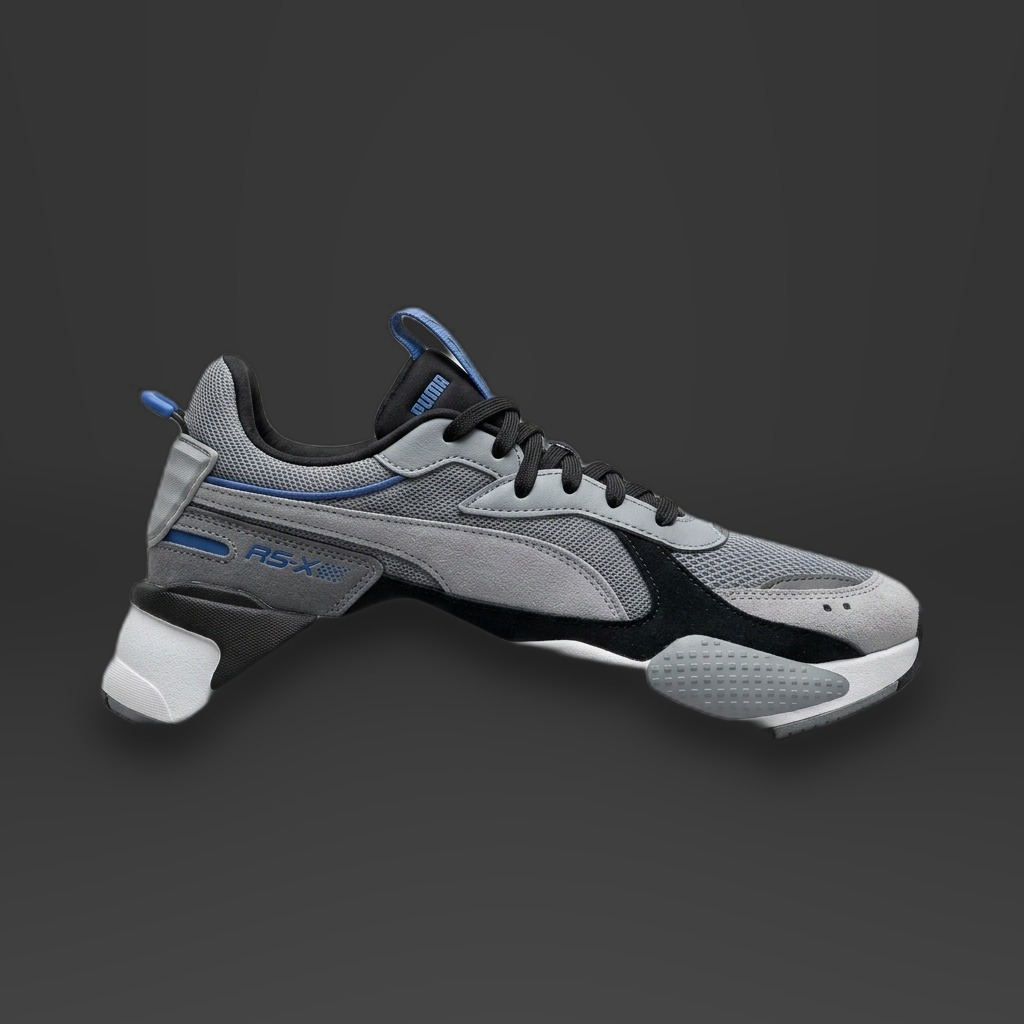
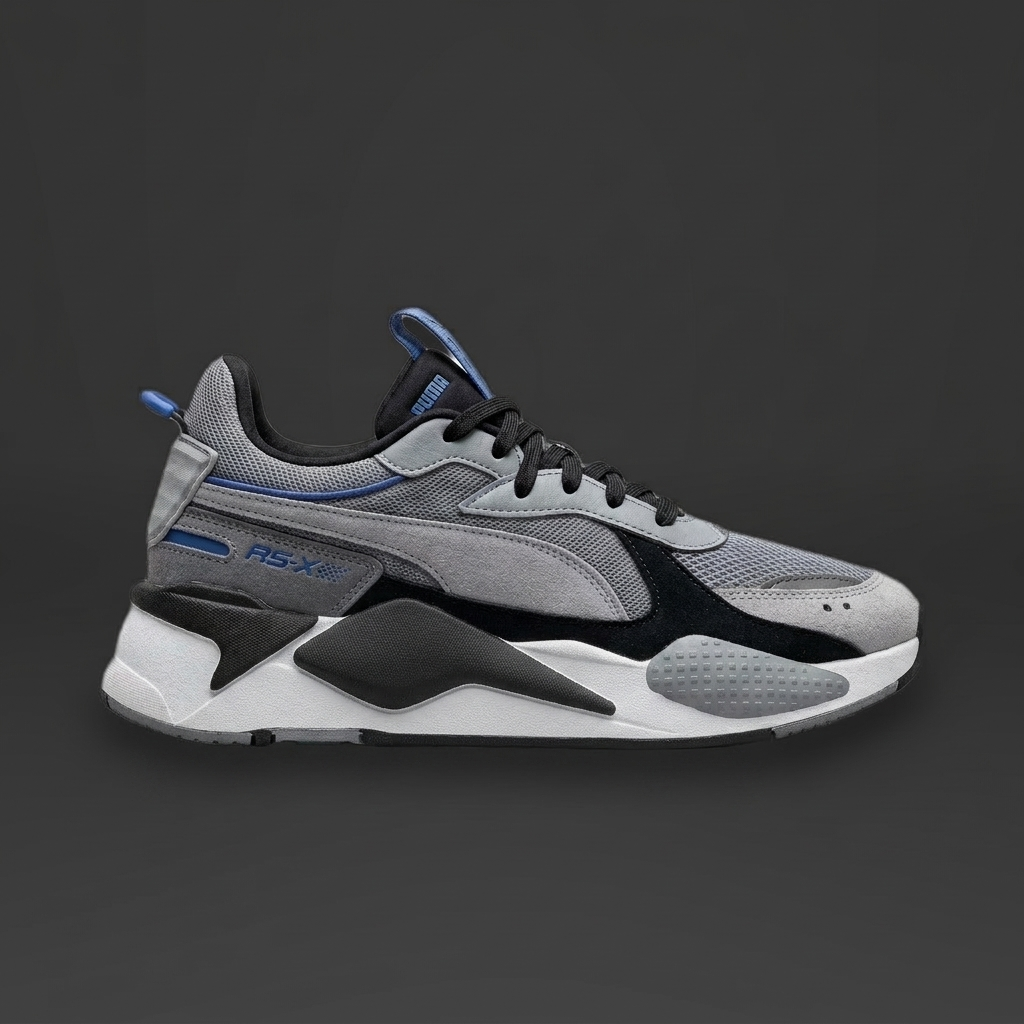
fix(catalogo): reparar foto Puma RS-X, filtrar talles de calzado y simplificar colores base

diff --git a/src/components/catalogo/asistente-busqueda.tsx b/src/components/catalogo/asistente-busqueda.tsx
@@ -12,6 +12,7 @@ interface AsistenteBusquedaProps {
   categorias: OpcionSlug[];
   etiquetas: OpcionSlug[];
   talles: string[];
+  tallesPorCategoria?: Record<string, string[]>;
   variante?: "banner" | "boton";
 }
 
@@ -25,6 +26,7 @@ export function AsistenteBusqueda({
   categorias,
   etiquetas,
   talles,
+  tallesPorCategoria,
   variante = "banner",
 }: AsistenteBusquedaProps) {
   const router = useRouter();
@@ -33,6 +35,31 @@ export function AsistenteBusqueda({
   const [etiqueta, setEtiqueta] = useState("");
   const [categoria, setCategoria] = useState("");
   const [talle, setTalle] = useState("");
+
+  // Solo talles numericos de calzado; niños (<= 34) solo para categoria Niños,
+  // adultos (>= 35) para Hombre, Mujer, Deportivas, Urbanas o sin categoria.
+  const tallesCalzado = talles.filter((t) => /^\d{2}$/.test(t));
+  const tallesAdulto = tallesCalzado.filter((t) => Number(t) >= 35);
+  const tallesNinos = tallesCalzado.filter((t) => Number(t) <= 34);
+
+  const esCategoriaNinos =
+    categoria.toLowerCase().includes("niñ") ||
+    categoria.toLowerCase().includes("nin");
+
+  const tallesVisibles: string[] = (() => {
+    if (!categoria) {
+      return tallesAdulto.length > 0 ? tallesAdulto : tallesCalzado;
+    }
+    if (tallesPorCategoria) {
+      return tallesPorCategoria[categoria] ?? [];
+    }
+    return esCategoriaNinos ? tallesNinos : tallesAdulto;
+  })();
+
+  function seleccionarCategoria(slug: string) {
+    setCategoria(slug);
+    setTalle("");
+  }
 
   function reiniciar() {
     setPaso(1);
@@ -173,7 +200,7 @@ export function AsistenteBusqueda({
                 <div className="flex flex-wrap gap-2.5">
                   <button
                     type="button"
-                    onClick={() => setCategoria("")}
+                    onClick={() => seleccionarCategoria("")}
                     className={`rounded-full border px-4 py-2 text-sm font-semibold transition-colors ${
                       categoria === ""
                         ? "border-[#CF1A1F] bg-[#CF1A1F] text-white"
@@ -186,7 +213,7 @@ export function AsistenteBusqueda({
                     <button
                       key={c.slug}
                       type="button"
-                      onClick={() => setCategoria(c.slug)}
+                      onClick={() => seleccionarCategoria(c.slug)}
                       className={`rounded-full border px-4 py-2 text-sm font-semibold transition-colors ${
                         categoria === c.slug
                           ? "border-[#CF1A1F] bg-[#CF1A1F] text-white"
@@ -200,32 +227,44 @@ export function AsistenteBusqueda({
               )}
 
               {paso === 3 && (
-                <div className="flex flex-wrap gap-2">
-                  <button
-                    type="button"
-                    onClick={() => setTalle("")}
-                    className={`rounded-md border px-3.5 py-2 text-sm font-semibold transition-colors ${
-                      talle === ""
-                        ? "border-[#CF1A1F] bg-[#CF1A1F] text-white"
-                        : "border-[#D9D9D9] bg-white text-[#2C2C2C] hover:border-[#2C2C2C]"
-                    }`}
-                  >
-                    Todos los talles
-                  </button>
-                  {talles.map((t) => (
+                <div className="flex flex-col gap-3">
+                  <div className="flex flex-wrap gap-2">
                     <button
-                      key={t}
                       type="button"
-                      onClick={() => setTalle(t)}
-                      className={`min-w-[48px] rounded-md border px-3 py-2 text-sm font-semibold transition-colors ${
-                        talle === t
+                      onClick={() => setTalle("")}
+                      className={`rounded-md border px-3.5 py-2 text-sm font-semibold transition-colors ${
+                        talle === ""
                           ? "border-[#CF1A1F] bg-[#CF1A1F] text-white"
                           : "border-[#D9D9D9] bg-white text-[#2C2C2C] hover:border-[#2C2C2C]"
                       }`}
                     >
-                      {t}
+                      Todos los talles
                     </button>
-                  ))}
+                    {tallesVisibles.map((t) => (
+                      <button
+                        key={t}
+                        type="button"
+                        onClick={() => setTalle(t)}
+                        className={`min-w-[48px] rounded-md border px-3 py-2 text-sm font-semibold transition-colors ${
+                          talle === t
+                            ? "border-[#CF1A1F] bg-[#CF1A1F] text-white"
+                            : "border-[#D9D9D9] bg-white text-[#2C2C2C] hover:border-[#2C2C2C]"
+                        }`}
+                      >
+                        {t}
+                      </button>
+                    ))}
+                  </div>
+                  {tallesVisibles.length === 0 && (
+                    <p className="text-xs text-[#6B6B6B]">
+                      Esta categoría no usa talles numéricos de calzado. Podés ver todas las opciones disponibles.
+                    </p>
+                  )}
+                  {!categoria && tallesNinos.length > 0 && (
+                    <p className="text-xs text-[#6B6B6B]">
+                      ¿Buscás talle de niños (27–34)? Elegí la categoría Niños en el paso anterior.
+                    </p>
+                  )}
                 </div>
               )}
             </div>

diff --git a/src/modules/catalogo/catalogo.ts b/src/modules/catalogo/catalogo.ts
@@ -72,8 +72,42 @@ export interface FacetasCatalogo {
   marcas: { nombre: string; slug: string }[];
   etiquetas: { nombre: string; slug: string }[];
   talles: string[];
+  tallesPorCategoria: Record<string, string[]>;
   colores: string[];
   materiales: string[];
+}
+
+const REGEX_TALLE_CALZADO = /^\d{2}$/;
+
+const GRUPOS_COLOR: { nombre: string; terminos: string[] }[] = [
+  { nombre: "Amarillo", terminos: ["amarillo"] },
+  { nombre: "Azul", terminos: ["azul"] },
+  { nombre: "Beige", terminos: ["beige", "arena", "crema"] },
+  { nombre: "Blanco", terminos: ["blanco"] },
+  { nombre: "Bordó", terminos: ["bordo", "bordó"] },
+  { nombre: "Celeste", terminos: ["celeste"] },
+  { nombre: "Gris", terminos: ["gris", "plata"] },
+  { nombre: "Naranja", terminos: ["naranja", "coral"] },
+  { nombre: "Negro", terminos: ["negro"] },
+  { nombre: "Rojo", terminos: ["rojo"] },
+  { nombre: "Rosa", terminos: ["rosa"] },
+  { nombre: "Verde", terminos: ["verde", "oliva", "lima"] },
+];
+
+function terminosParaColor(colorFiltro: string): string[] {
+  const normalizado = colorFiltro.trim().toLowerCase();
+  const grupo = GRUPOS_COLOR.find(
+    (g) => g.nombre.toLowerCase() === normalizado,
+  );
+  return grupo ? grupo.terminos : [colorFiltro.trim()];
+}
+
+function esTalleCalzado(talle: string | null): talle is string {
+  return Boolean(talle && REGEX_TALLE_CALZADO.test(talle.trim()));
+}
+
+function ordenarTallesNumericos(talles: Iterable<string>): string[] {
+  return [...new Set(talles)].sort((a, b) => Number(a) - Number(b));
 }
 
 export function calcularEstadoStock(stock: number): {
@@ -253,7 +287,12 @@ function construirWhere(filtros: FiltrosCatalogo): Prisma.ProductoWhereInput {
   }
   const filtroVariante: Prisma.VarianteProductoWhereInput = {};
   if (filtros.talle) filtroVariante.talle = filtros.talle;
-  if (filtros.color) filtroVariante.color = filtros.color;
+  if (filtros.color) {
+    const terminos = terminosParaColor(filtros.color);
+    filtroVariante.OR = terminos.map((termino) => ({
+      color: { contains: termino, mode: "insensitive" },
+    }));
+  }
   if (filtros.material) filtroVariante.material = filtros.material;
   if (filtros.disponibilidad === "con-stock") {
     filtroVariante.stockActual = { gt: 0 };
@@ -389,7 +428,12 @@ export async function obtenerFacetas(): Promise<FacetasCatalogo> {
     }),
     prisma.varianteProducto.findMany({
       where: { producto: { is: { estado: "ACTIVO" } } },
-      select: { talle: true, color: true, material: true },
+      select: {
+        talle: true,
+        color: true,
+        material: true,
+        producto: { select: { categoria: { select: { slug: true } } } },
+      },
     }),
   ]);
 
@@ -398,12 +442,44 @@ export async function obtenerFacetas(): Promise<FacetasCatalogo> {
       a.localeCompare(b, "es"),
     );
 
+  const tallesCalzado = ordenarTallesNumericos(
+    variantes.map((v) => v.talle).filter(esTalleCalzado),
+  );
+
+  const mapaTallesCat = new Map<string, Set<string>>();
+  for (const v of variantes) {
+    if (!esTalleCalzado(v.talle)) continue;
+    const slug = v.producto.categoria.slug;
+    const conjunto = mapaTallesCat.get(slug) ?? new Set<string>();
+    conjunto.add(v.talle.trim());
+    mapaTallesCat.set(slug, conjunto);
+  }
+  const tallesPorCategoria: Record<string, string[]> = {};
+  for (const [slug, conjunto] of mapaTallesCat.entries()) {
+    tallesPorCategoria[slug] = ordenarTallesNumericos(conjunto);
+  }
+
+  const coloresBasePresentes = new Set<string>();
+  for (const v of variantes) {
+    if (!v.color) continue;
+    const valorLower = v.color.toLowerCase();
+    for (const grupo of GRUPOS_COLOR) {
+      if (grupo.terminos.some((t) => valorLower.includes(t))) {
+        coloresBasePresentes.add(grupo.nombre);
+      }
+    }
+  }
+  const colores = [...coloresBasePresentes].sort((a, b) =>
+    a.localeCompare(b, "es"),
+  );
+
   return {
     categorias,
     marcas,
     etiquetas,
-    talles: valoresUnicos(variantes.map((v) => v.talle)),
-    colores: valoresUnicos(variantes.map((v) => v.color)),
+    talles: tallesCalzado,
+    tallesPorCategoria,
+    colores,
     materiales: valoresUnicos(variantes.map((v) => v.material)),
   };
 }

diff --git a/src/app/catalogo/page.tsx b/src/app/catalogo/page.tsx
@@ -250,11 +250,34 @@ export default async function CatalogoPage({
                 className={inputClass}
               >
                 <option value="">Todos los talles</option>
-                {facetas.talles.map((t) => (
-                  <option key={t} value={t}>
-                    Talle {t}
-                  </option>
-                ))}
+                {filtros.categoria && facetas.tallesPorCategoria[filtros.categoria] ? (
+                  facetas.tallesPorCategoria[filtros.categoria].map((t) => (
+                    <option key={t} value={t}>
+                      Talle {t}
+                    </option>
+                  ))
+                ) : (
+                  <>
+                    <optgroup label="Adultos (Hombre / Mujer)">
+                      {facetas.talles
+                        .filter((t) => Number(t) >= 35)
+                        .map((t) => (
+                          <option key={t} value={t}>
+                            Talle {t}
+                          </option>
+                        ))}
+                    </optgroup>
+                    <optgroup label="Niños">
+                      {facetas.talles
+                        .filter((t) => Number(t) <= 34)
+                        .map((t) => (
+                          <option key={t} value={t}>
+                            Talle {t}
+                          </option>
+                        ))}
+                    </optgroup>
+                  </>
+                )}
               </select>
             </div>
 
@@ -358,6 +381,7 @@ export default async function CatalogoPage({
                 categorias={facetas.categorias}
                 etiquetas={facetas.etiquetas}
                 talles={facetas.talles}
+                tallesPorCategoria={facetas.tallesPorCategoria}
                 variante="boton"
               />
               {soloOfertas && (

diff --git a/src/app/page.tsx b/src/app/page.tsx
@@ -61,6 +61,7 @@ export default async function PaginaInicio() {
     marcas: [],
     etiquetas: [],
     talles: [],
+    tallesPorCategoria: {},
     colores: [],
     materiales: [],
   };
@@ -121,6 +122,7 @@ export default async function PaginaInicio() {
           categorias={facetas.categorias}
           etiquetas={facetas.etiquetas}
           talles={facetas.talles}
+          tallesPorCategoria={facetas.tallesPorCategoria}
           variante="banner"
         />
       </section>
